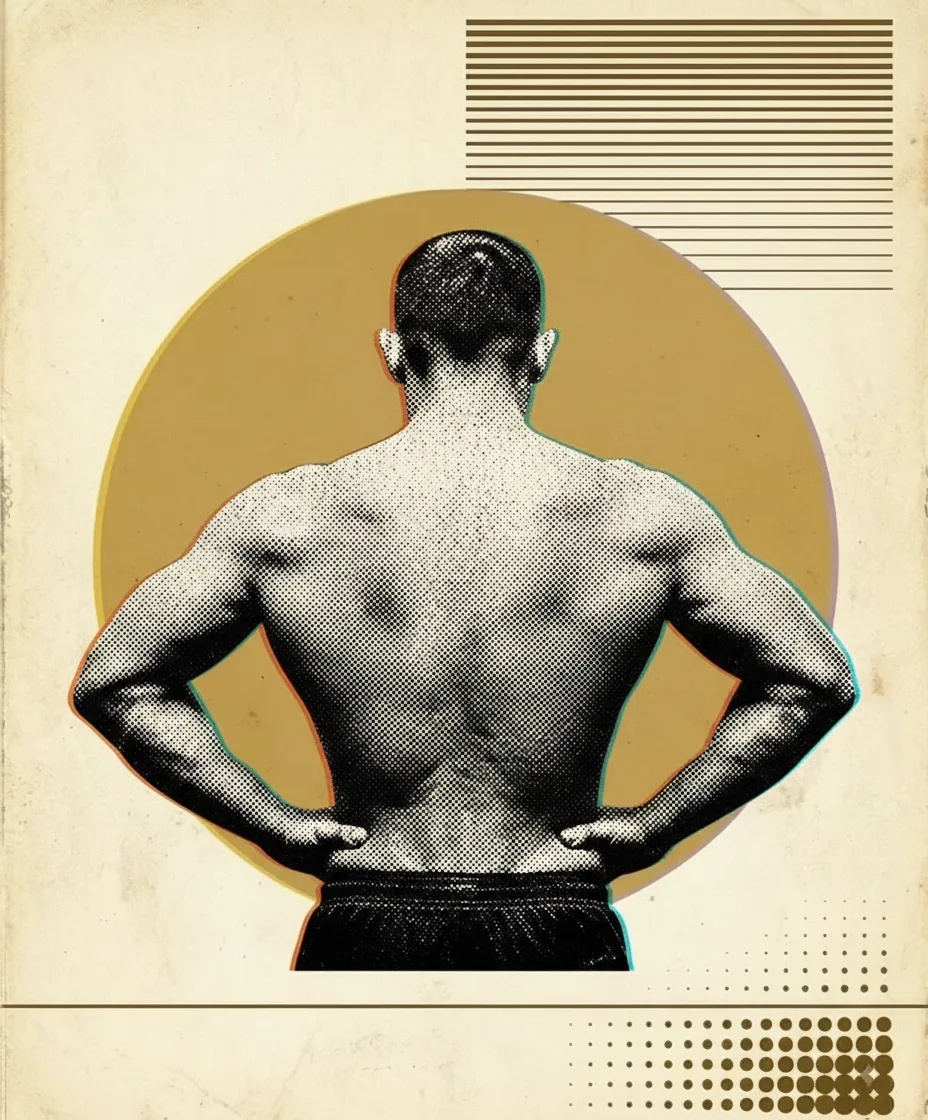
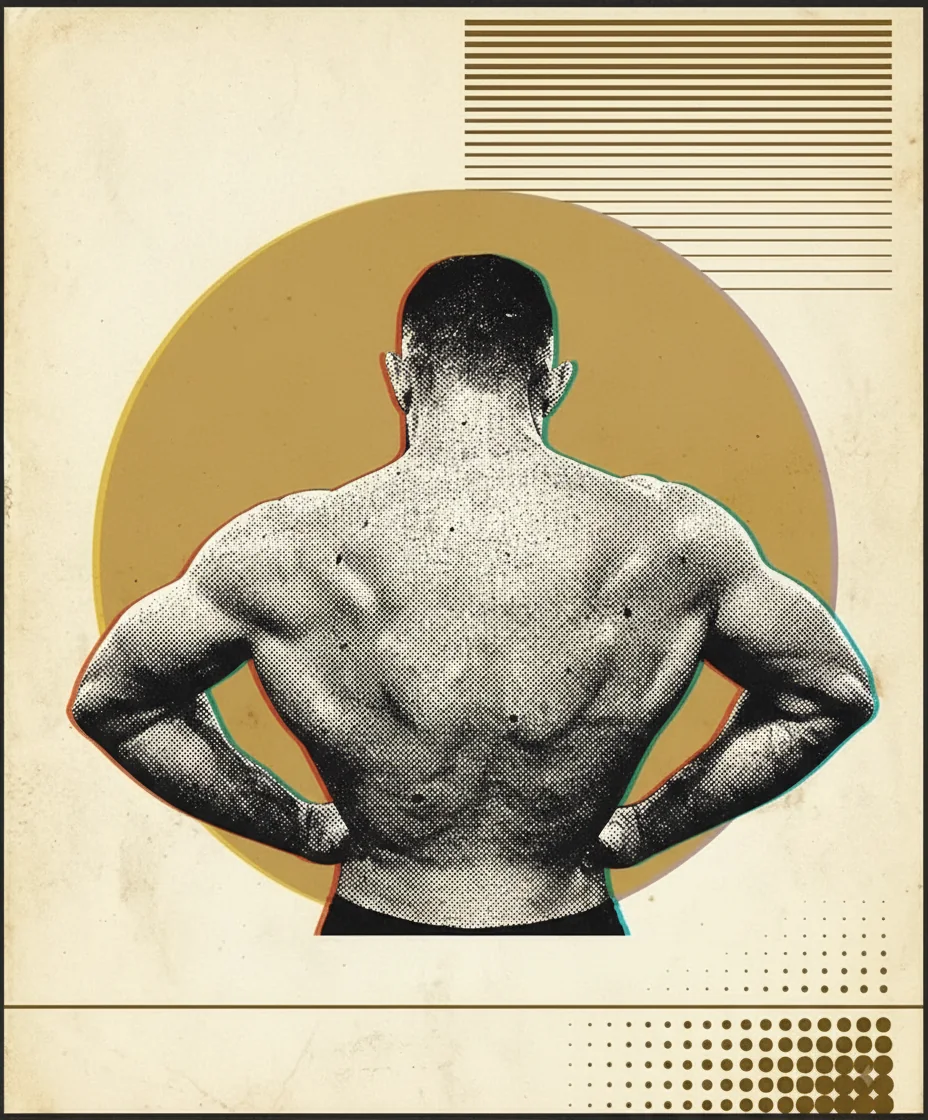
feat: live mark link, deeper poster relief, drop the rail band and price CTA
- Dot rail loses its dark strip; the marks stand on the page
- "Прогресираш с BLAG APP" moves to third and the name takes the same face
  and size as the word, gold instead of a size down
- "THE BLAG COACH" becomes the way through: a slow sweep of light across the
  letters and a ring that closes on press. The button under the lessons goes
- Poster regenerated with the back's relief preserved — dot density carves the
  spinal furrow, lat separation and deltoid heads instead of flattening them
- It now sits behind the whole coach section, blurred and held back, with the
  dark pillow buying the text its contrast
- "КОЛКО СТРУВА?" replaced by a quiet line: "Какво включва работата с мен"

Claude-Session: https://claude.ai/code/session_0198PHTs5UxbpA3vZWfvYPZh

diff --git a/src/components/LandingPage/LandingPage.module.css b/src/components/LandingPage/LandingPage.module.css
@@ -638,8 +638,16 @@
 
 .coachSection { position: relative; overflow: hidden; }
 
-/* No top cover here. The print is the top of this section now, and a veil of
-   page-dark over it would be covering the thing worth showing. */
+/* Top cover — same device as lessonsSection::before. */
+.coachSection::before {
+  content: '';
+  position: absolute;
+  top: 0; left: 0; right: 0;
+  height: 30vh;
+  background: linear-gradient(to bottom, var(--bg) 0%, rgba(12,10,6,0.7) 50%, transparent 100%);
+  pointer-events: none;
+  z-index: 1;
+}
 
 /* Bottom cover. */
 .coachSection::after {
@@ -656,37 +664,36 @@
    facing away and closes it facing away. The sheet is cream, so it hangs at
    the top of the section at full strength and the text sits below it on the
    page's own dark rather than fighting the paper for contrast. */
+/* The print behind the whole section, not a panel at the top of it. Blurred
+   and held back: it is the ground the words stand on, and a sheet at full
+   sharpness under running text turns both into noise. */
 .coachBg {
   position: absolute;
-  top: 0;
-  left: 0;
-  right: 0;
-  /* Tall enough to read as a poster, short enough that the bullets under it
-     are on screen at the same time on a phone. */
-  height: 62vh;
-  background: url('/coach-poster.webp') 50% 12% / cover no-repeat;
+  inset: 0;
+  background: url('/coach-poster.webp') 50% 42% / cover no-repeat;
+  filter: blur(3px) saturate(88%);
+  /* The blur samples past the edges and leaves a pale rim, so the layer is
+     grown a little beyond the box it fills. */
+  transform: scale(1.06);
+  opacity: 0.34;
+  -webkit-mask-image: radial-gradient(ellipse 128% 92% at 50% 44%, #000 0%, #000 40%, transparent 90%);
+  mask-image: radial-gradient(ellipse 128% 92% at 50% 44%, #000 0%, #000 40%, transparent 90%);
   pointer-events: none;
 }
 
-/* Dark from the foot of the print upwards — the same two-stop fade the hero
-   uses, so the paper ends in the page instead of being cut off by a line. */
+/* Dark pillow under the words. The paper is cream and the text is not, so the
+   contrast has to be bought here rather than by turning the whole print down
+   until nothing of it is left. */
 .coachWash {
   position: absolute;
-  top: 0;
-  left: 0;
-  right: 0;
-  height: 62vh;
-  background: linear-gradient(to bottom,
-    rgba(12, 10, 6, 0.28) 0%,
-    rgba(12, 10, 6, 0.10) 22%,
-    rgba(12, 10, 6, 0.55) 66%,
-    rgba(12, 10, 6, 0.94) 86%,
-    var(--bg) 100%);
+  inset: 0;
+  background: radial-gradient(ellipse 86% 62% at 50% 50%,
+    rgba(12, 10, 6, 0.86) 0%,
+    rgba(12, 10, 6, 0.66) 42%,
+    rgba(12, 10, 6, 0.24) 72%,
+    transparent 92%);
   pointer-events: none;
 }
-
-/* The section starts below the print. */
-.coachSection { padding-top: calc(62vh - 40px); }
 
 /* All direct children sit above the two background layers. */
 .coachSection > *:not(.coachBg):not(.coachWash) { position: relative; z-index: 1; }
@@ -717,6 +724,72 @@
   white-space: nowrap;
   color: var(--accent);
   opacity: 0.8;
+}
+
+/* ── The name, as the way through ─────────────────────────────────────────
+   A label that happens to be a link gets read as a label. This one is lit from
+   inside: a band of pale gold crosses the letters every few seconds, slowly
+   enough that it is never caught moving, and a ring draws itself around the
+   whole thing when a finger lands. */
+.markLink {
+  position: relative;
+  display: inline-flex;
+  align-items: center;
+  justify-content: center;
+  padding: 9px 18px;
+  text-decoration: none;
+  cursor: pointer;
+  -webkit-tap-highlight-color: transparent;
+}
+
+.markText {
+  font-family: var(--font-heading);
+  font-size: 15px;
+  letter-spacing: 0.2em;
+  text-indent: 0.2em;
+  white-space: nowrap;
+  /* The sweep. A wide gradient with a bright band in it, three times the width
+     of the text, walked across by background-position. */
+  color: var(--accent);
+  background-image: linear-gradient(100deg,
+    rgba(var(--accent-rgb), 0.72) 0%,
+    rgba(var(--accent-rgb), 0.72) 38%,
+    #FFF0CE 48%,
+    rgba(var(--accent-rgb), 0.72) 58%,
+    rgba(var(--accent-rgb), 0.72) 100%);
+  background-size: 300% 100%;
+  -webkit-background-clip: text;
+  background-clip: text;
+  -webkit-text-fill-color: transparent;
+  animation: sweep 4.5s linear infinite;
+}
+
+@keyframes sweep {
+  from { background-position: 150% 0; }
+  to   { background-position: -150% 0; }
+}
+
+/* Closed on both sides, open at the ends — brackets rather than a box, so it
+   frames the name without boxing it in. */
+.markRing {
+  position: absolute;
+  inset: 0;
+  border-radius: var(--r-pill, 999px);
+  border: 1px solid rgba(var(--accent-rgb), 0.22);
+  transition: border-color 200ms, transform 200ms var(--ease-out),
+              box-shadow 200ms;
+  pointer-events: none;
+}
+
+.markLink:active .markRing,
+.markLink:hover .markRing {
+  border-color: rgba(var(--accent-rgb), 0.65);
+  transform: scale(1.04);
+  box-shadow: 0 0 24px -6px rgba(var(--accent-rgb), 0.45);
+}
+
+@media (prefers-reduced-motion: reduce) {
+  .markText { animation: none; }
 }
 
 .h2 {

diff --git a/src/components/LandingPage/LandingPage.jsx b/src/components/LandingPage/LandingPage.jsx
@@ -132,13 +132,15 @@ export default function LandingPage({ onContinue, onLogin }) {
             until the text was safe turned it down everywhere, including the
             corners where nothing needed protecting. */}
         <div className={styles.lessonsWash} aria-hidden="true" />
-        <span className={styles.eyebrow}>THE BLAG COACH</span>
+        {/* The name is the way through to him. It carries a slow sweep of light
+            across the letters so it reads as live rather than as a label, and
+            the ring closes around it when a finger is on it. */}
+        <a className={styles.markLink} href="#coach" onClick={go('coach')}>
+          <span className={styles.markText}>THE BLAG COACH</span>
+          <span className={styles.markRing} aria-hidden="true" />
+        </a>
         <h2 className={styles.h2}>ще те научи как да:</h2>
         <Lessons />
-
-        <a className={styles.heroCta} href="#coach" onClick={go('coach')}>
-          КОЙ Е BLAG COACH?
-        </a>
       </section>
 
       {/* ── Coach ──────────────────────────────────────────────────────── */}
@@ -184,13 +186,8 @@ export default function LandingPage({ onContinue, onLogin }) {
           </a>
         </div>
 
-        <a className={styles.heroCta} href="#price" onClick={go('price')}>
-          КОЛКО СТРУВА?
-        </a>
-
-        <a className={styles.write} href="https://ig.me/m/blag.coaching"
-           target="_blank" rel="noopener noreferrer">
-          Питай ме, не хапя ;)
+        <a className={styles.write} href="#price" onClick={go('price')}>
+          Какво включва работата с мен
         </a>
       </section>
 

diff --git a/src/components/LandingPage/Lessons.jsx b/src/components/LandingPage/Lessons.jsx
@@ -22,11 +22,11 @@ import styles from './Lessons.module.css'
 const LESSONS = [
   { id: 'train',   word: 'Тренираш',         film: '/lessons/5765.mp4', webm: '/lessons/5765.webm' },
   { id: 'pose',    word: 'Позираш',          film: '/hero.mp4',         webm: '/hero.webm' },
-  { id: 'eat',     word: 'Се храниш',        film: '/lessons/eat.mp4',  webm: '/lessons/eat.webm' },
-  { id: 'recover', word: 'Се възстановяваш' },
   /* The app, as one of the five rather than a button under them. It teaches the
      same way the others do — you press the word and the thing opens. */
   { id: 'app',     word: 'Прогресираш', app: true },
+  { id: 'eat',     word: 'Се храниш',        film: '/lessons/eat.mp4',  webm: '/lessons/eat.webm' },
+  { id: 'recover', word: 'Се възстановяваш' },
 ]
 
 function Sheet({ lesson, onClose }) {

diff --git a/src/components/LandingPage/Lessons.module.css b/src/components/LandingPage/Lessons.module.css
@@ -65,13 +65,10 @@
   border-color: rgba(var(--accent-rgb), 0.8);
 }
 
-/* The product's name, inside the row that opens it: gold and a size down, so
-   the row still reads as one line rather than two words fighting. */
-.withApp {
-  color: var(--accent);
-  font-size: 0.62em;
-  letter-spacing: 0.1em;
-}
+/* The product's name, inside the row that opens it. Same face and same size as
+   the word before it — only the colour changes, so the line reads as one
+   sentence with the name lit rather than as a heading with a tagline. */
+.withApp { color: var(--accent); }
 
 /* ── The opened screen ───────────────────────────────────────────────────── */
 .sheet {

diff --git a/src/components/LandingPage/DotNav.module.css b/src/components/LandingPage/DotNav.module.css
@@ -14,12 +14,9 @@
   align-items: center;
   justify-content: center;
   gap: 16px;
-  /* Barely there, but there — a strip of slightly different dark is enough to
-     say "this column belongs to the navigation" without drawing a border. */
-  background: linear-gradient(to left,
-    rgba(20, 17, 11, 0.55) 0%, rgba(20, 17, 11, 0.16) 60%, transparent 100%);
-  backdrop-filter: blur(3px);
-  -webkit-backdrop-filter: blur(3px);
+  /* No ground of its own. The strip was a black band down the side of every
+     section — the marks carry themselves, and the page already reserves the
+     width so nothing lands under them. */
 }
 
 /* Dashes, not dots. A short vertical stroke reads as a position on a scale;
